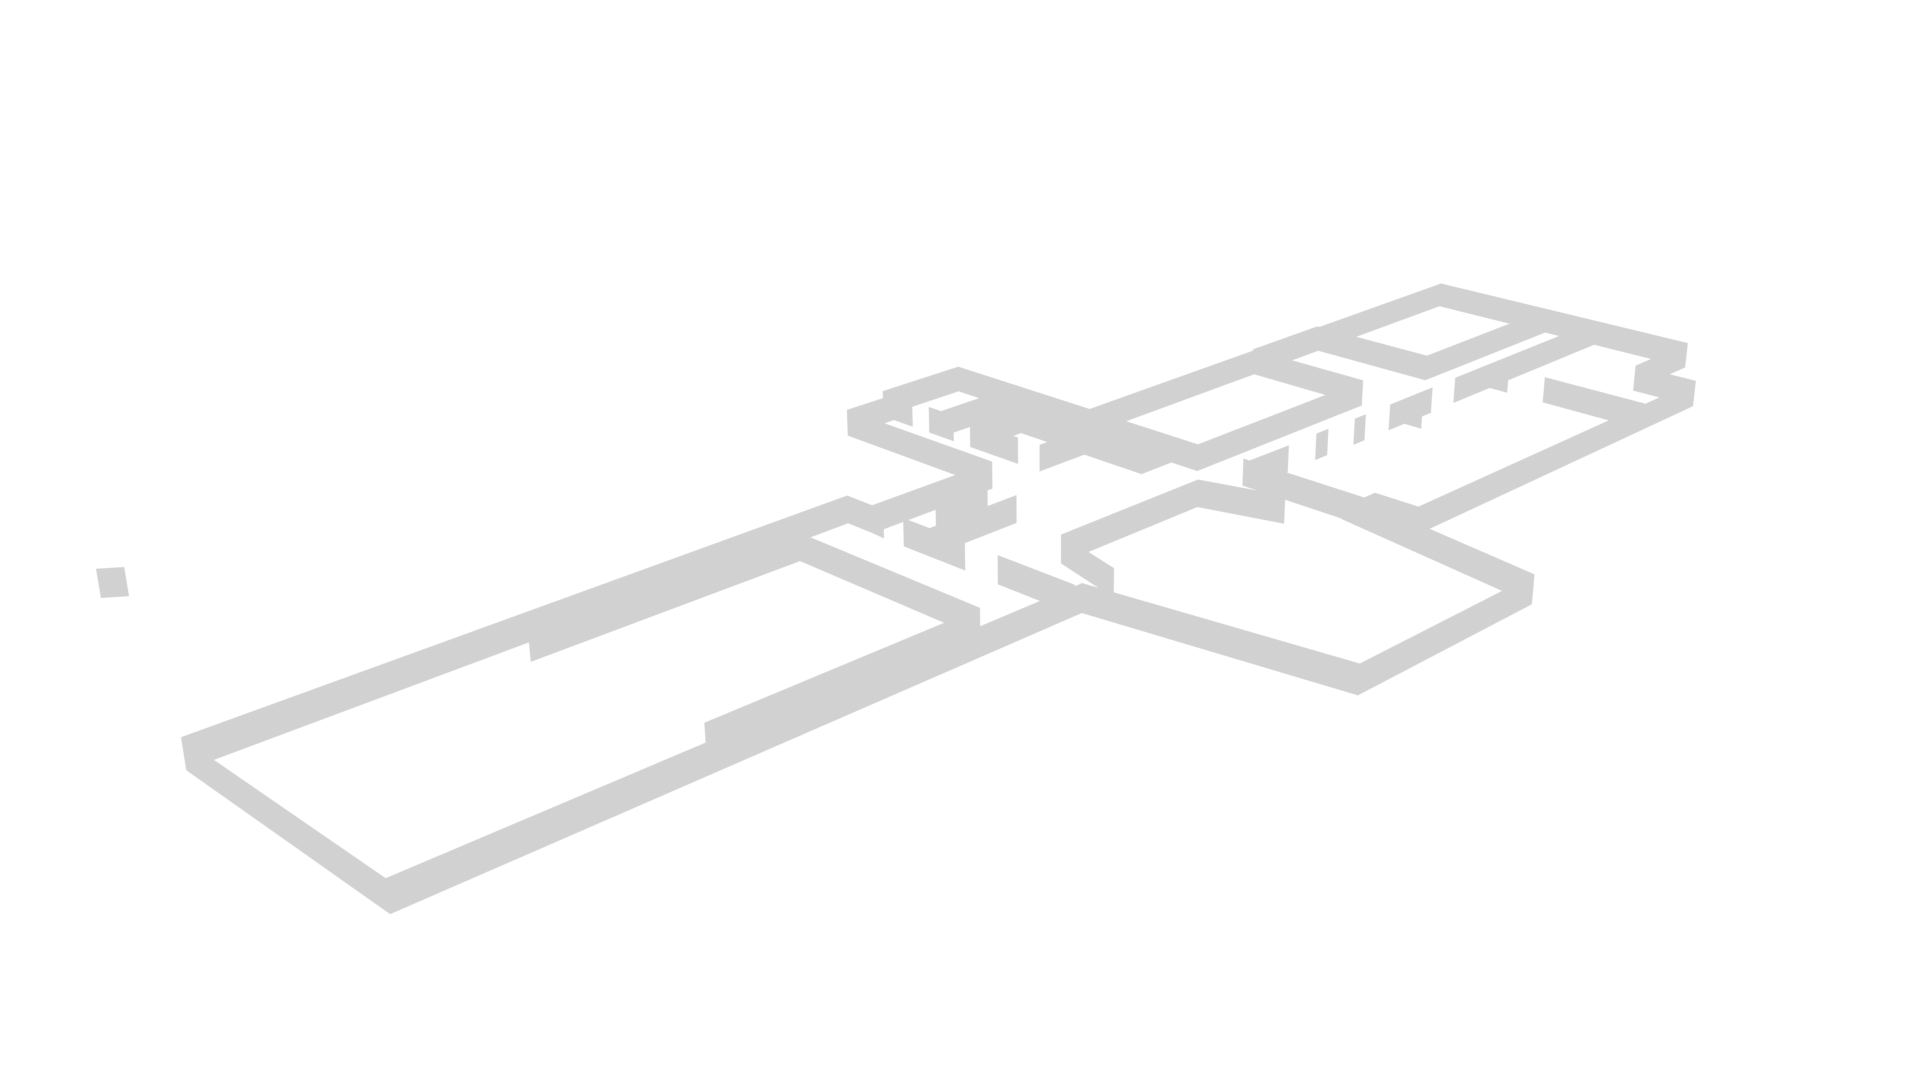
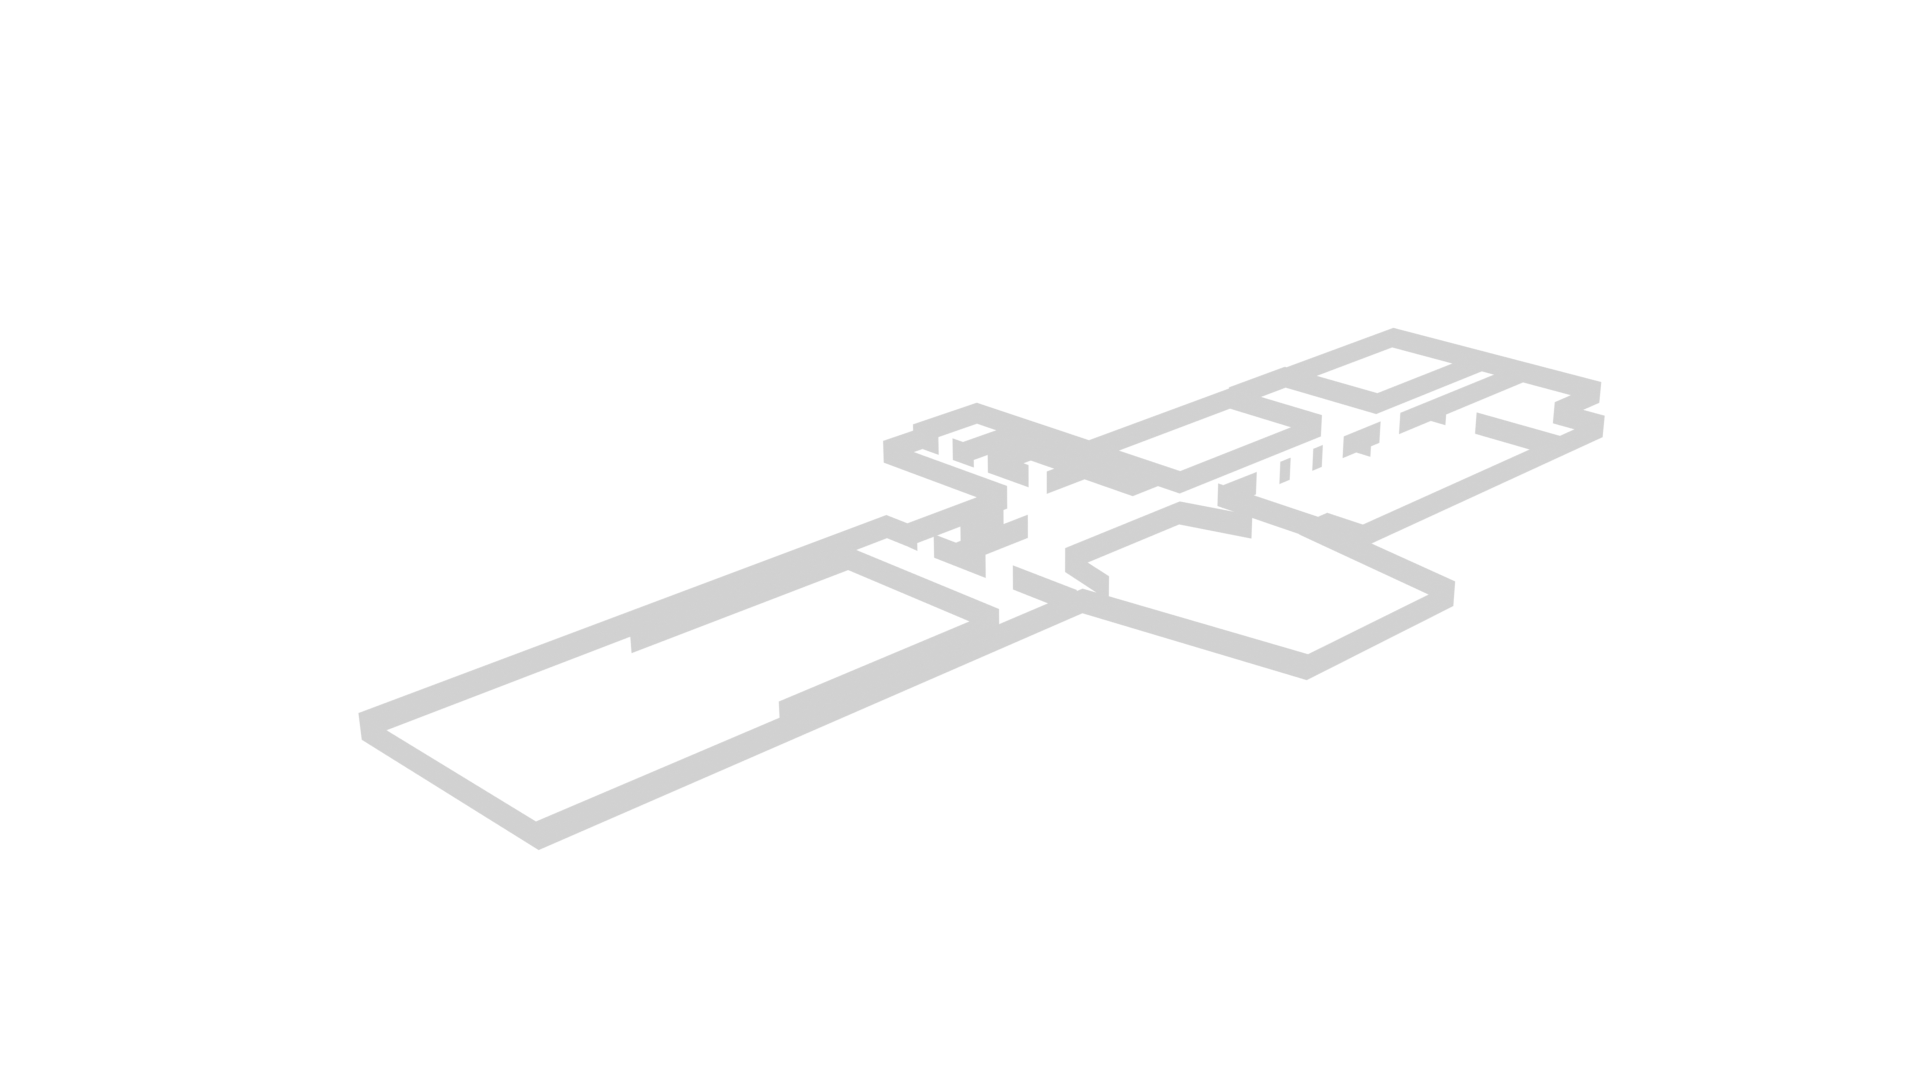
Changes

diff --git a/src/components/MoviePoster.vue b/src/components/MoviePoster.vue
@@ -21,7 +21,11 @@ const x = setInterval(function () {
 <template>
   <div v-if="upcoming" class="moviePoster">
     <div class="poster" :style="{'background-image': 'url('+upcoming.now.production.images.HDPortrait.filename+')'}">
-      <h2 class="count">{{upcoming.now.production.title}} {{moment(upcoming.now.startDate).format('HH:mm')}}</h2>
+      <h2 class="count">
+        {{upcoming.now.production.title}}
+        <br/>
+        {{moment(upcoming.now.startDate).format('HH:mm')}}
+      </h2>
     </div>
 
   </div>
@@ -31,7 +35,6 @@ const x = setInterval(function () {
 .moviePoster{
   background-color: white;
   border-radius: 2px;
-  max-width: 150px;
   color: black;
 }
 .poster{
@@ -40,11 +43,13 @@ const x = setInterval(function () {
   background: no-repeat center center;
   background-size: cover;
   position: relative;
+  border-radius: 4px;
 }
 .poster .count{
   text-align: center;
   color: white;
   background-color: rgba(0,0,0,.6);
+  padding: 4px;
   margin: unset;
   position: absolute;
   top: 25%;

diff --git a/src/views/Main.vue b/src/views/Main.vue
@@ -23,6 +23,7 @@ request().then(r => {
 <div class="container" id="l1">
   <div class="lvl">0</div>
   <img class="map" src="../assets/F1.png">
+  <img class="pin" src="../assets/Map-Pin.svg">
   <div class="square" id="Room4">
     <MoviePoster :events="response.events.filter(e => e.hall === Hall.Zaal4)"></MoviePoster>
   </div>
@@ -50,11 +51,8 @@ request().then(r => {
 }
 .square{
   position: absolute;
-}
-.square img{
-  max-width: 100%;
-  max-height: 100%;
-  border-radius: 1px;
+  height: 250px;
+  width: 150px;
 }
 #Room6{
   top: 32%;
@@ -80,9 +78,11 @@ request().then(r => {
   top: 7%;
   left: 70%;
 }
+#l1, #l2{
+  max-width: 100%;
+}
 #l1{
   top: 30%;
-  left: 15%;
 }
 .lvl{
   padding: 10px;
@@ -93,5 +93,11 @@ request().then(r => {
   position: absolute;
   bottom: 40%;
   font-size: large;
+}
+.pin{
+  position: absolute;
+  bottom: 58%;
+  left: 58%;
+  height: 60px;
 }
 </style>

diff --git a/src/views/Hallway2.vue b/src/views/Hallway2.vue
@@ -14,8 +14,8 @@ request().then(r => {
 <template>
   <div class="container" v-if="response != undefined">
     <div class="overlay"></div>
-    <MovieCard class="poster1" :events="response.events.filter(e => e.hall === Hall.Zaal4)"></MovieCard>
-    <MovieCard class="poster2" :events="response.events.filter(e => e.hall === Hall.Zaal3)"></MovieCard>
+    <MovieCard class="poster1" :events="response.events.filter(e => e.hall === Hall.Zaal4)" l></MovieCard>
+    <MovieCard class="poster2" :events="response.events.filter(e => e.hall === Hall.Zaal3)" l></MovieCard>
   </div>
 </template>
 

diff --git a/src/components/MovieCard.vue b/src/components/MovieCard.vue
@@ -23,7 +23,7 @@ import moment from "moment";
 import {onMounted, ref, watch, watchEffect} from "vue";
 const props = defineProps<{
   events: NatLabEvent[],
-  l: true
+  l: boolean
 }>()
 const upcoming = ref<{now: NatLabEvent, next: NatLabEvent}>()
 
